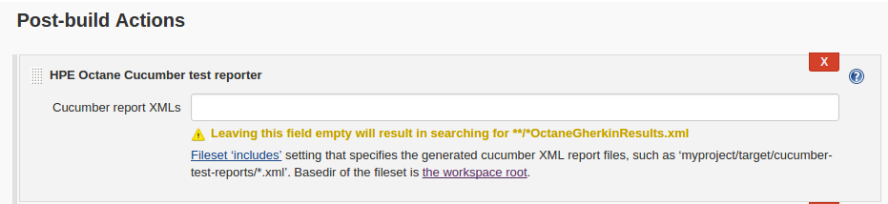
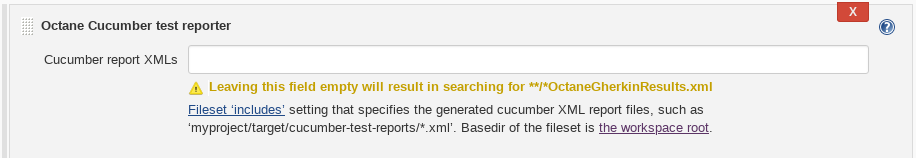
updated post actions build screen shot updated readme links and name for Micro Focus

diff --git a/src/test/java/net/mf/TestRunner.java b/src/test/java/net/mf/TestRunner.java
@@ -21,9 +21,9 @@ import org.junit.runner.RunWith;
 //
 // For all scenarios that are @mobile AND @slow AND NOT @ignore
 // mvn  clean test -Dcucumber.options="--tags @mobile --tags @slow --tags ~@ignore"
-@CucumberOptions(plugin = {"pretty", "junit:junitResults.xml","html:target/cucumber-pretty-report"},
+@CucumberOptions(plugin = {"pretty", "junit:junitResults.xml"},
         features = ".",  // removed the long path dependency.  can use -Dcucumber.options="features=<path>" if need to change the path
-        tags = {"@web,~@mobile"})
+        tags = {"@web,~@mobile"})  // This was designed to run web and any other feature file added by default.  You can vary it by following the information above.
 
 public class TestRunner {
 

diff --git a/README.md b/README.md
@@ -1,7 +1,7 @@
 # octane-gherkin
-This script is a simple script to demonstrate the ability to have Cucumber tests results be reported back to Octane (via Jenkins).  You will need to make sure to have the Jenkins [HPE Application Automation Tools 5.2](https://wiki.jenkins.io/display/JENKINS/HPE+Application+Automation+Tools) plug in installed to perform the steps below
+This script is a simple script to demonstrate the ability to have Cucumber tests results be reported back to Octane (via Jenkins).  You will need to make sure to have the Jenkins [Micro Focus Application Automation Tools](https://wiki.jenkins.io/display/JENKINS/Micro+Focus+Application+Automation+Tools) plug in installed to perform the steps below
 
-If you have an old version of the script or need to put the script in your devops container, use the following steps.
+If you have an old version of the script or need to put the script in your devops container, use the following steps.  Note: This step was intended for those who are leveraging the Micro Focus demo platform NImbus.  This example can still be used if you are not using Nimbus simply by creating your Jenkins job to point at the [octane-gherkin](https://github.com/admpresales/octane-gherkin) project as part of the build step.
 ```
 From a terminal window clone the following 
    git clone --mirror https://github.com/admpresales/octane-gherkin.git
@@ -20,6 +20,7 @@ In Jenkins, you will need to create a Freestyle job and checkout the project fro
 I suggest you use the following for your Maven goals
 
 ![Jenkins Build Section](docImg/jenkinsBuild.png?raw=true)
+NOTE: You can change the execution options based on tags as explained in the [TestRunner.java](https://github.com/admpresales/octane-gherkin/blob/tag-usage/src/test/java/net/mf/TestRunner.java) file
 
 And enter the following for your Post Build actions 
 
@@ -30,6 +31,6 @@ And enter the following for your Post Build actions
 Publish JUnit test result report
 * the file name shown above comes from the name used in the test project (src/test/java/net.hpe/TestRunner) class
 
-HPE Octane Cucumber test reporter
-* Generally speaking, you shouldn't need to enter anything.  The above is based on the use of the Jenkins [HPE Application Automation Tools 5.2](https://wiki.jenkins.io/display/JENKINS/HPE+Application+Automation+Tools)
+Octane Cucumber test reporter
+* Generally speaking, you shouldn't need to enter anything.  The above is based on the use of the Jenkins  [Micro Focus Application Automation Tools](https://wiki.jenkins.io/display/JENKINS/Micro+Focus+Application+Automation+Tools)
 
